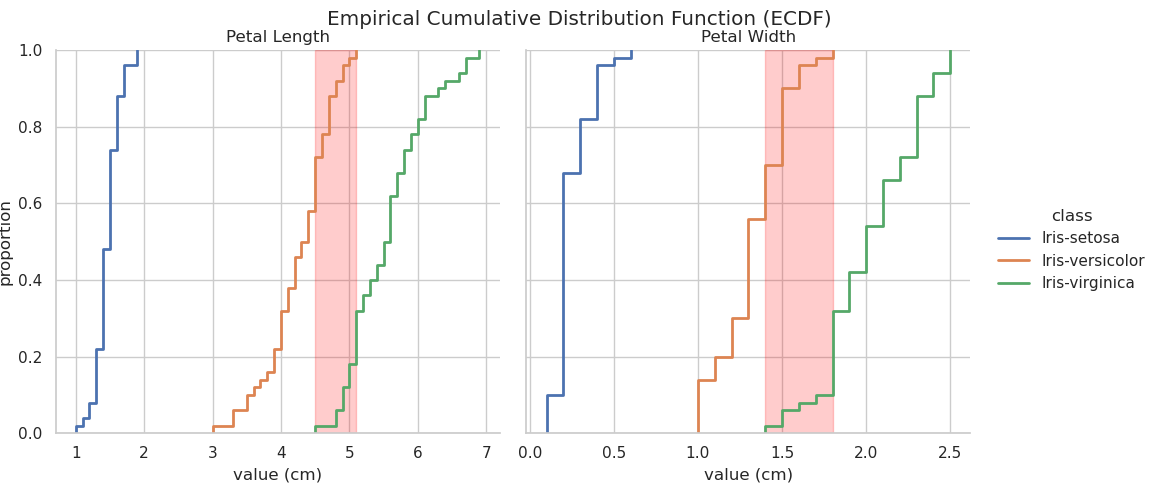
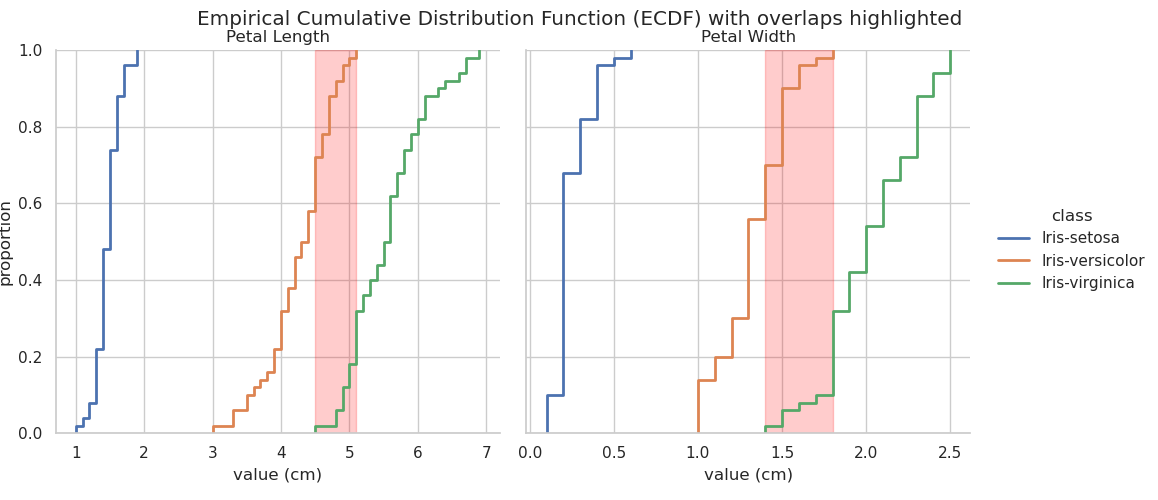
updated titles on ecdf plots

Changed region(s): [[0.1554, 0.0, 0.8394, 0.06]]

diff --git a/analysis.py b/analysis.py
@@ -122,7 +122,7 @@ def main():
           x="value",
           col="variable",
           vlines=True,
-          title="Empirical Cumulative Distribution Function (ECDF)",
+          title="Empirical Cumulative Distribution Function (ECDF) with maximum values indicated",
           filename="output/ecdf.png")
     insert_text("README.md", 
                 {"ECDF": "![ECDF](" + "output/ecdf.png" + ")"})
@@ -165,7 +165,7 @@ def main():
           x="value",
           col="variable",
           vspan=True,
-          title="Empirical Cumulative Distribution Function (ECDF)",
+          title="Empirical Cumulative Distribution Function (ECDF) with overlaps highlighted",
           filename="output/ecdf_spans.png")
     insert_text("README.md", 
                 {"ECDF SPANS": "![ECDF SPANS](" + "output/ecdf_spans.png" + ")"})
